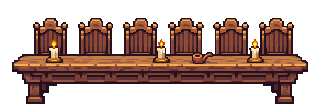
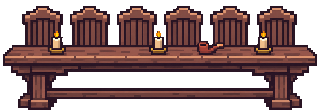
art: repaint elders table in tavern pixel style

diff --git a/docs/TASKS.md b/docs/TASKS.md
@@ -1281,3 +1281,10 @@ EXPANSION-2-FRAMES — Codex; art/expansion-2; /workspace/legends-of-the-fall. O
 - Scope: one source image `art-source/expansion/duel-ring.png`, prompt and handoff records.
 - Completion: 640×320 transparent PNG; hollow 5×5 square at 2:1 isometric angle, low grey menhirs, occasional brass bands and moss, no ground/text; added to PR #464.
 - Status: complete; final image visually inspected, 640×320 RGBA and transparent centre/exterior verified. Source art only; no runtime checks. [Handoff](notes/expansion-2-duel-ring.md).
+
+### EXPANSION-2-ELDERS — Tavern table source repaint
+
+- Owner: current Codex art chat; branch `art/expansion-2`; worktree `/workspace/legends-of-the-fall`; PR #464.
+- Scope: one `art-source/expansion/elders-table.png` plus required prompt and handoff records.
+- Completion: 320×112 transparent side-view oak table, six empty high-backed chairs, three candles and a clay pipe; match `src/art/tavern/` pixel style; no people or text.
+- Status: ready for review; final 320×112 RGBA image visually reviewed, binary alpha and transparent margins checked. Runtime tests/build not run: source art only. [Handoff](notes/expansion-2-elders-table.md).

diff --git a/docs/notes/expansion-2-art.md b/docs/notes/expansion-2-art.md
@@ -10,3 +10,7 @@ Visually reviewed all five cells. Verified dimensions, binary alpha, transparent
 Repainted `art-source/expansion/council-backdrop.png` as one opaque 1024×1536 upright painterly pixel-art menu backdrop. Empty torchlit cavern council hall, long black table and dim unlabelled war map, horned throne, thirteen high-backed chairs, and orc/undead/beast wall banners in violet and ember light. The centre and outer edges are subdued for menu text. No people or lettering.
 
 Visually reviewed the generated artwork; PNG header verified exact dimensions and RGB colour. Added to Expansion art 2 PR #464 on `art/expansion-2`. Runtime tests/build not run: source artwork and records only; no runtime integration or version bump. Ready for owner review.
+
+## Elders' tavern table
+
+Repainted `art-source/expansion/elders-table.png` to match the tavern prop references: 320×112 transparent oak table with six empty high-backed chairs, three candles and a clay pipe. Native-size visual review, RGBA, exact dimensions, binary alpha and transparent margins checked. [Handoff](expansion-2-elders-table.md). Source art only; no runtime tests/build.

diff --git a/docs/notes/expansion-2-art-prompts.md b/docs/notes/expansion-2-art-prompts.md
@@ -83,3 +83,21 @@ Stones about a quarter tile high, occasional aged brass bands and moss
 at their feet. Stones only on the perimeter; no ground, tiles or text.
 Muted steel grey, aged brass and moss green, upper-left lighting.
 ```
+
+## Elders' tavern table
+
+```text
+Repository hpatter9/legends-of-the-fall; branch art/expansion-2.
+Paint ONE image: art-source/expansion/elders-table.png, 320×112,
+transparent background. Match src/art/tavern/longtable.png, chair.png
+and bar.png exactly: coarse square pixel clusters, stepped dark
+plum-brown outlines, dusty reddish oak, muted peach-tan highlights,
+deep purple-brown shadows and simple block shading. Long oak table
+in side view with a shallow tabletop visible; exactly six empty
+high-backed wooden chairs evenly spaced behind it, carved stepped
+tops and vertical slats. Two sturdy trestles and a low crossbar.
+Exactly three lit cream candles in small brass holders, and one clay
+pipe lying on the tabletop. Warm lamplight as solid amber pixels.
+No people, text, floor, backdrop, extra clutter or soft glow.
+All parts visible with transparent padding. One sprite only.
+```

diff --git a/docs/notes/expansion-2-elders-table.md b/docs/notes/expansion-2-elders-table.md
@@ -1,0 +1,7 @@
+# Elders' table source art
+
+Repainted `art-source/expansion/elders-table.png` against the existing tavern long table, chair and bar references. One 320×112 transparent side-view oak table, six empty high-backed chairs, three lit candles and a clay pipe, with muted oak/plum shadows and warm amber highlights. No people or text.
+
+Generated one source image, then reduced with nearest-neighbour sampling and thresholded alpha for crisp transparent edges. Visually reviewed the final native-size PNG; checked exact dimensions, RGBA, binary alpha, transparent margins and all requested objects. Runtime tests/build not run: source art and documentation only.
+
+Branch `art/expansion-2`, Expansion art 2 PR #464. Ready for owner review; runtime integration remains outside this task. No version bump or merge.
